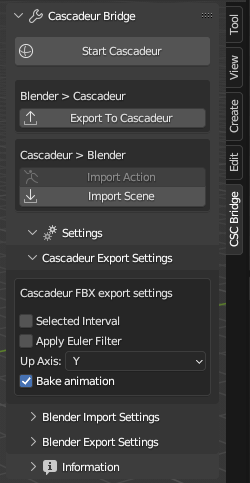
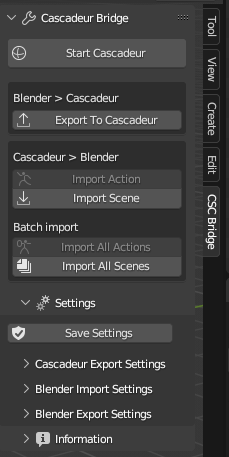
update readme

diff --git a/ui/main_panel.py b/ui/main_panel.py
@@ -72,7 +72,7 @@ class CBB_PT_parent_panel(PanelBasics, bpy.types.Panel):
         props.batch_export = False
         # Batch
         col = box.column(align=True)
-        col.label(text="Batch import")
+        col.label(text="Batch Import")
         props = col.operator(
             "cbb.import_cascadeur_action",
             text="Import All Actions",

diff --git a/README.md b/README.md
@@ -10,10 +10,11 @@ For a visual introduction watch the youtube video:
 
 ![Cascadeur Bridge UI](/doc/addon_side_panel.png)
 
-- Start Cascadeur from Blender 
-- Export selected objects from Blender to Cascadeur
+- Start Cascadeur from Blender
+- Export scene from Blender to Cascadeur
 - Import whole scene from Cascadeur
 - Import animation to selected armature
+- Batch import all opened scenes and actions from Cascadeur
 - Configure Cascadeur FBX export settings
 - Configure Blender FBX import/export settings
 
@@ -34,11 +35,16 @@ To install Cascadeur Bridge, follow these steps:
 
 ## Usage
 
-You can find the addon on the side panel of the 3D Viewport with the name CSC Bridge.
-- Select an Armature to **Import Action** to the selected object. **This armature should be exactly the same in both software!**
-This operator imports the Cascadeur scene as fbx, apply the imported action to the selected armature and delete the imported objects.
-- **Import Scene** will simply import the current Cascadeur scene as an fbx.
-- **Export Selected** will export the selected objects and import them into Cascadeur
+The addon can be accessed from the N panel of the 3D Viewport in Blender.
+- In the add-on preferences, you have the option to set the display name of the N panel. This feature is particularly useful if you want to merge the user interface with a different add-on.
+- **Export to Cascadeur** will export the Blender scene and import it to Cascadeur.
+- **Import Action**: To import an action into the selected object, first, make sure to select an **Armature that exactly matches the one in Cascadeur**.
+ This operator will import the Cascadeur scene as an fbx file, apply the imported action to the selected armature, and then delete the imported objects.
+- **Import Scene** will simply import the current Cascadeur scene as an fbx file.
+- **Batch Import** Similar to "Import Scene" and "Import Action", but this option allows you to import scenes or actions from **all opened scenes in Cascadeur**.
+- **Cascadeur Export Settings and Blender Import/Export Settings:** The default settings are optimized for typical use, but you might need different settings based on your specific requirements. Adjust the usual Blender FBX export/import settings and the Cascadeur FBX export settings here. Once you find the settings that work for you, remember to click the Save Settings button.
+
+
 
 ## Remove the addon
 
@@ -48,8 +54,7 @@ To remove the addon
     - go to your commands folder (*CASCADEUR PATH\resources\scripts\python\commands*) and delete the ***externals*** folder. 
 
 ## Future plans:
-- Make fbx import/export settings section
-- Import actions from all opened scene
+- Bind textures automatically in Cascaduer
 - Set up camera in Cascadeur (to match with Blender)
 - Export action from Blender
 
